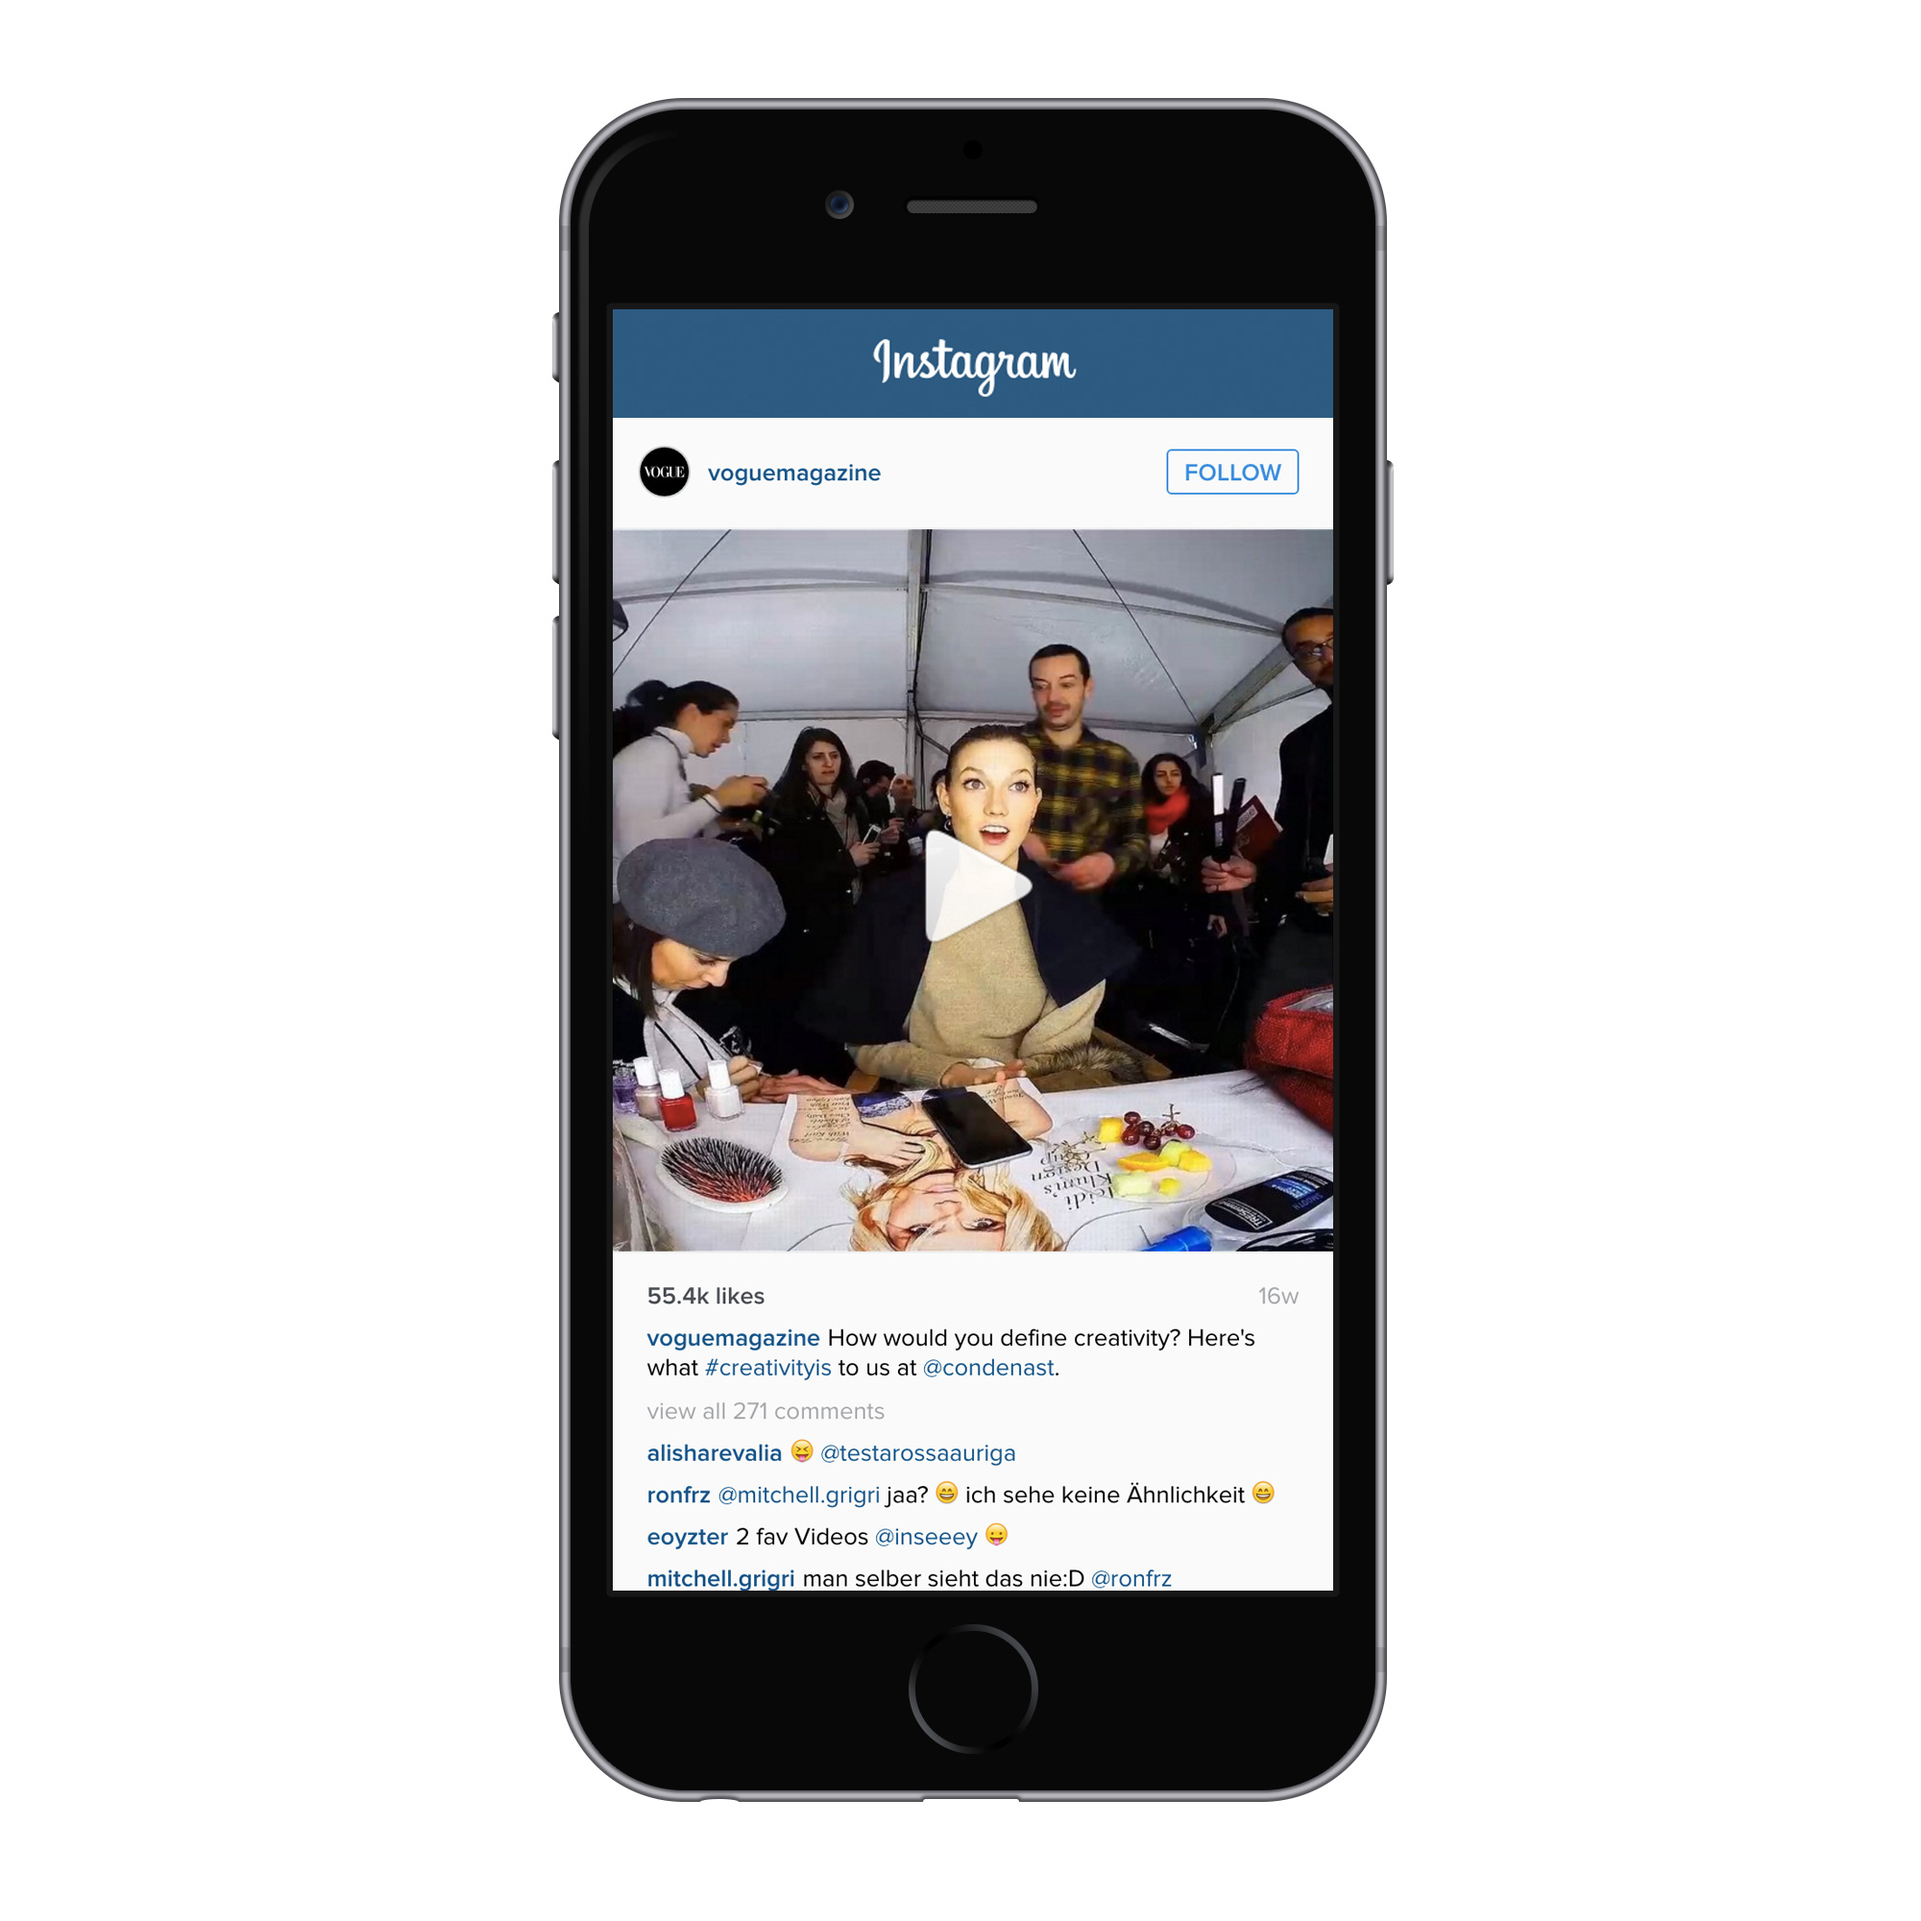
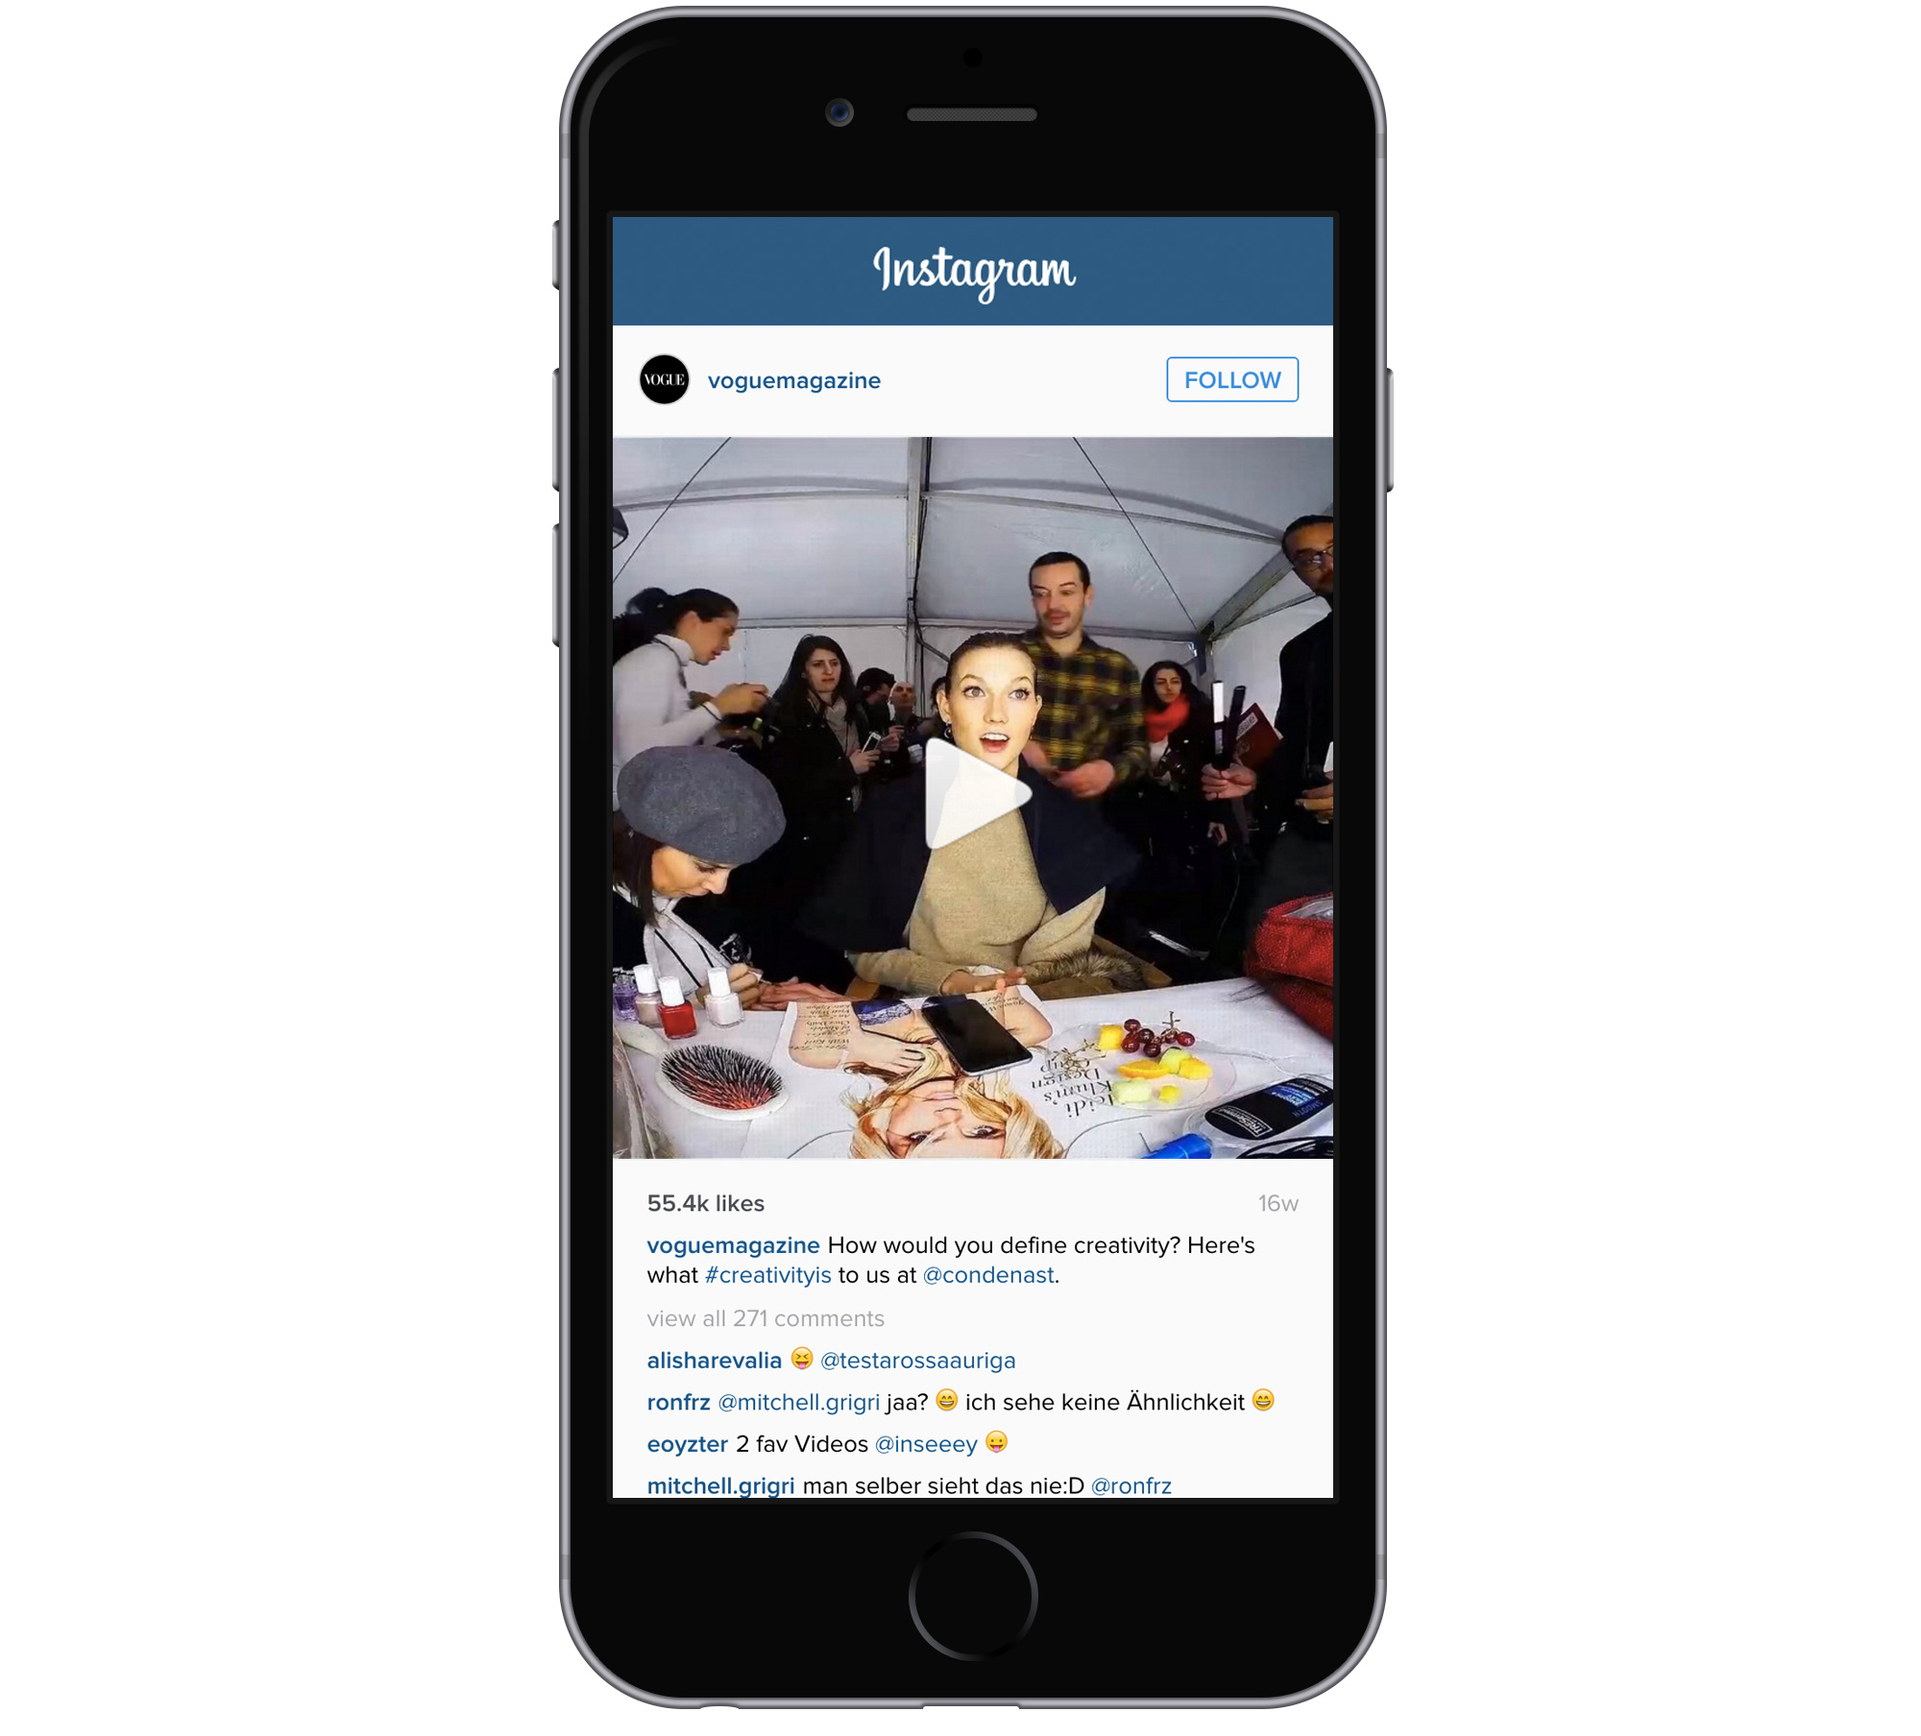
d

Changed region(s): [[0.279, 0.0, 0.744, 0.4956], [0.279, 0.4956, 0.744, 0.9912], [0.31, 0.4336, 0.341, 0.4646]]

diff --git a/pages/cn_videos/cn_videos.html b/pages/cn_videos/cn_videos.html
@@ -39,7 +39,13 @@ are published throughout social media.
     
     <div class="img_wrap">
         <div class="img_box">
-            <img src="img/iPhone-6-Mockup.jpg"><br>
+            <img src="img/CN-video1.png"><br>
+            <blockquote class="instagram-media" data-instgrm-captioned data-instgrm-version="7" style=" background:#FFF; border:0; border-radius:3px; box-shadow:0 0 1px 0 rgba(0,0,0,0.5),0 1px 10px 0 rgba(0,0,0,0.15); margin: 1px; max-width:658px; padding:0; width:99.375%; width:-webkit-calc(100% - 2px); width:calc(100% - 2px);">
+                <div style="padding:8px;"> 
+                    <div style=" background:#F8F8F8; line-height:0; margin-top:40px; padding:50.0% 0; text-align:center; width:100%;"> 
[1 lines of base64/hex data omitted]
+<script async defer src="//platform.instagram.com/en_US/embeds.js"></script>
+            
             
         </div>
     

diff --git a/pages/bogus/bogus.html b/pages/bogus/bogus.html
@@ -1,0 +1,77 @@
+
+<!DOCTYPE html>
+<head>
+     <meta charset="utf-8">
+    <meta name="keywords" content="Wooseok, Wooseok shur, RISD, design, ux, user experience, print, branding">
+    <meta name="description" content="Wooseok Shur Portfolios">
+    <meta name="author" content="Wooseok Shur">
+    <meta name="viewport" content="initial-scale=1.0, maximum-scale=2.0, width=device-width">
+    
+    <title> wooseok shur</title>
+    
+    
+    <script type="text/javascript" src="http://ajax.googleapis.com/ajax/libs/jquery/2.1.3/jquery.min.js"></script>
+    <script type="text/javascript" src="http://code.jquery.com/jquery-1.11.0.min.js"></script>
+    
+    <link rel="stylesheet" href="../../style.css">
+    <link rel="stylesheet" href="mobile.css">
+    <link rel="icon" type="image/png" href="img/favicon-01.png">
+    
+    
+</head>
+
+
+
+
+<body>
+    
+    <div class="halftop1">
+            BOGUS STUDIO<sup class="sup">2016</sup>
+            <br>—<br>Invitation Series<br>
+            <p class="bodytext"> Serial invitations for the Bogus studio showroom opening.
+            </p>
+        </div>  
+        <div class="backbutton"> <a href="../../index.html">Back</a></div>
+    
+    
+    
+    
+    
+    
+    
+    
+    
+    <div class="img_wrap">
+        <div class="img_box">
+            <img src="img/070616_Bogus_invite%20series_810p.gif"><br>
+            
+        </div>
+    
+    
+    
+    
+    
+</body>
+
+
+<script>
+function get_random_color() {
+    var letters = '0123456789ABCDEF'.split('');
+    var color = '#';
+    for (var i = 0; i < 6; i++ ) {
+        color += letters[Math.round(Math.random() * 15)];
+    }
+    return color;
+}
+
+$(function() {
+    $("a").mouseover(function() {
+        $(this).css({"color":get_random_color(),"transition":"0.3s"});
+        
+    });
+    
+    $("a").mouseout(function() {
+        $(this).css({"color":"black","transition":"0.5s"});
+    });
+});
+</script>

diff --git a/index.html b/index.html
@@ -51,12 +51,14 @@
         <div class="back" id="kaplan_back"></div>
         <div class="back" id="rane_back"></div>
         <div class="back" id="horst_back"></div>        
-        <div class="back" id="cn_videos_back"></div>
+        <div class="back" id="cn_videos_back"></div>  
+        <div class="back" id="bogus_back"></div>
     </div>
     
     <div class="navigation">
         <p id="woo" >WOOSEOK SHUR</p>—<br>
         
+        <a class="work" id="bogus" href="pages/bogus/bogus.html" >BOGUS STUDIO<sup class="sup">2016</sup></a> | 
         <a class="work" href="#">CONDÉ NAST ARCHIVE<sup class="sup">2016</sup></a> | 
         <a class="work" id="cn_videos" href="pages/cn_videos/cn_videos.html" >#CREATIVITYIS VIDEO SERIES<sup class="sup">2016</sup></a> | 
         <a class="work" id="cnrepo" href="pages/cn_reposition/cn_reposition.html">CONDÉ NAST REPOSITION<sup class="sup">2016</sup></a> | 
@@ -286,6 +288,12 @@ $(document).ready(function() {
             $("#cn_videos_back").css({"opacity":"1", "transition":"0.5s"}); },
         function(){
             $("#cn_videos_back").css({"opacity":"0", "transition":"0.5s"}); });
+    $("#bogus").hover(
+        function(){
+            $("#bogus_back").css({"opacity":"1", "transition":"0.5s"}); },
+        function(){
+            $("#bogus_back").css({"opacity":"0", "transition":"0.5s"}); });
+
 
 
 

diff --git a/style.css b/style.css
@@ -146,6 +146,7 @@ p.bodytext{
 #artbasel_back{background-image: url(pages/art_basel/img/00.jpg);}
 #bewag_back{background-image: url(pages/bewag/img/Kuwait-Pavilion_Biennale2016_MED_01a.jpg); }
 #bigger_back{background-image: url(pages/bigger/img/bigger_back.gif); }
+#bogus_back{background-image: url(pages/bogus/img/070616_Bogus_invite%20series.jpg); }
 #cfda_back{background-image: url(pages/cfda/img/Untitled-1.jpg); }
 #coursera_back{background-image: url(pages/course/img/00.jpg); }
 #cnrepo_back{background-image: url(pages/cn_reposition/img/00.jpg);}
